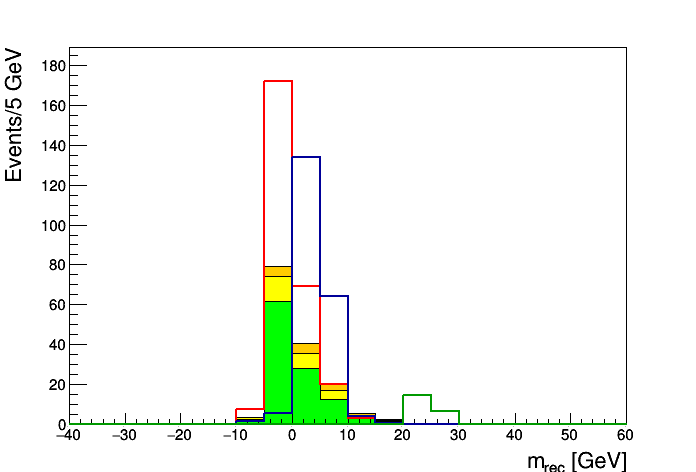
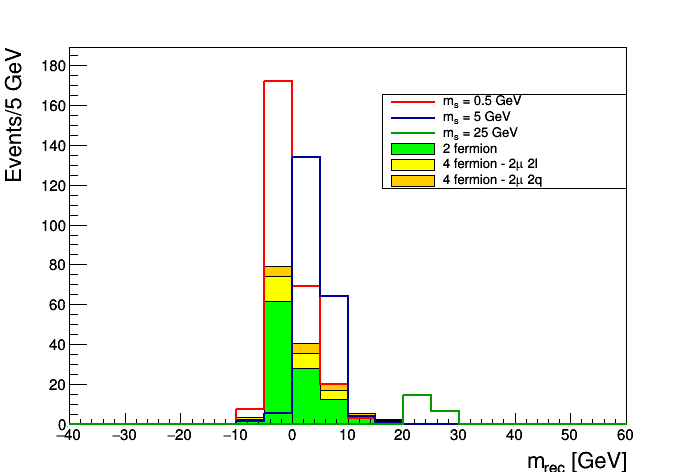
fixing legend on recoil mass plot

Changed region(s): [[0.5431, 0.178, 0.7845, 0.4153]]

diff --git a/scripts/check_ntuple.py b/scripts/check_ntuple.py
@@ -1554,6 +1554,15 @@ xmin.append(ROOT.gPad.GetUxmin())
 xmax.append(ROOT.gPad.GetUxmax())
 hs_sig_mu_rec.Draw("hist, nostack, same")
 ROOT.gPad.Update()
+legend_rec = ROOT.TLegend(0.55,0.6,0.9,0.8)
+legend_rec.AddEntry(hist_mu_0p5_rec, "m_{s} = 0.5 GeV", "l")
+legend_rec.AddEntry(hist_mu_5_rec, "m_{s} = 5 GeV", "l")
+legend_rec.AddEntry(hist_mu_25_rec, "m_{s} = 25 GeV", "l")
+legend_rec.AddEntry(hist_mu_2f_rec, "2 fermion", "f")
+legend_rec.AddEntry(hist_mu_4f_rec, "4 fermion - 2#mu 2l", "f")
+legend_rec.AddEntry(hist_mu_4fqq_rec, "4 fermion - 2#mu 2q", "f")
+legend_rec.Draw()
+ROOT.gPad.Update()
 c_muon_rec.Print("../plots/ZTomumu_rec.png")
 file_mu_0p5_rec = ROOT.TFile("../combine/mu_0p5_mrec.root","RECREATE")
 file_mu_2_rec = ROOT.TFile("../combine/mu_2_mrec.root","RECREATE")
